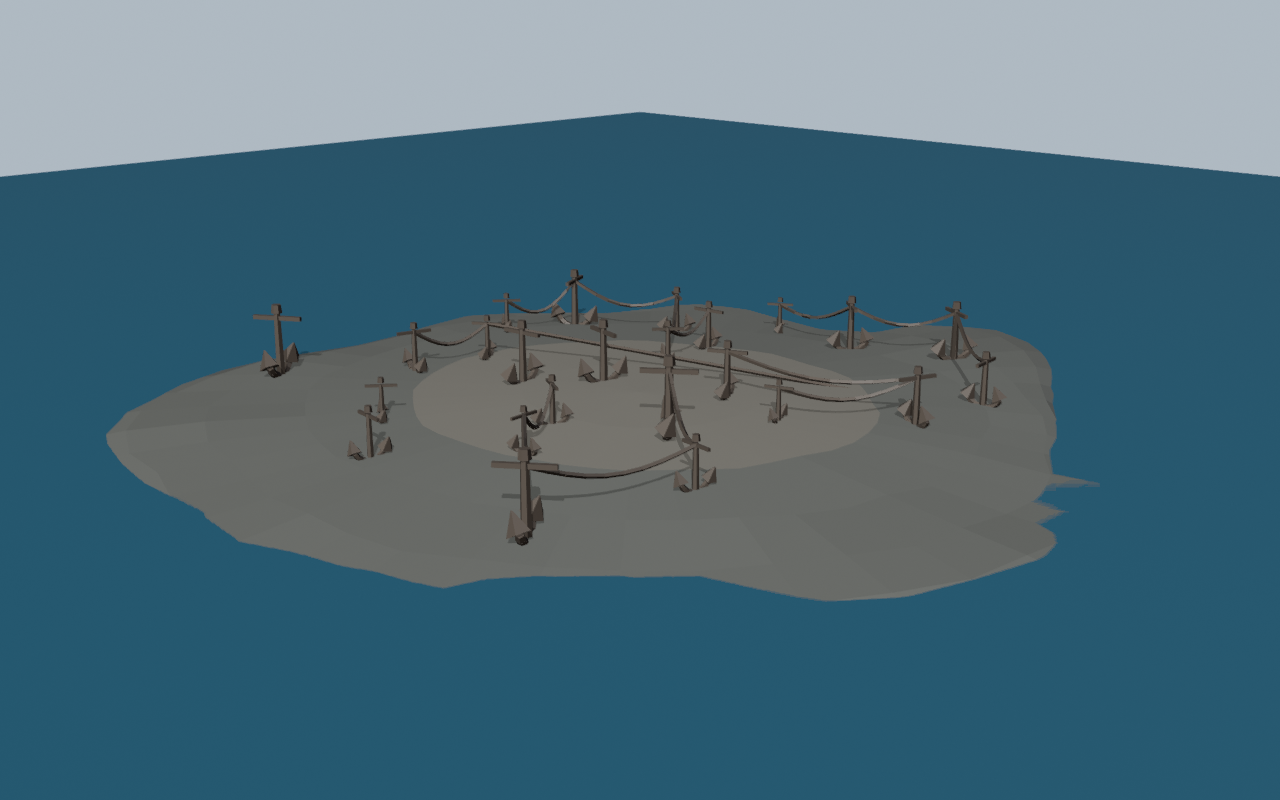
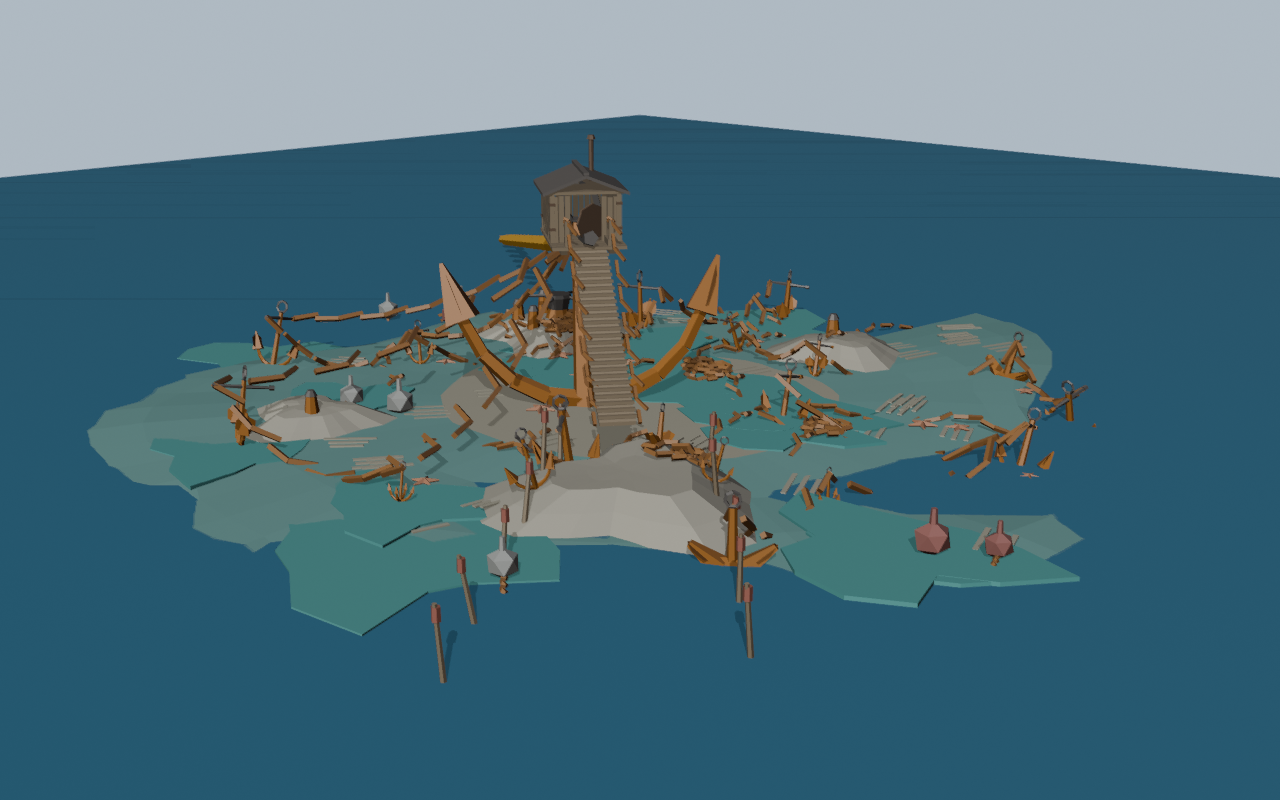
Islet redesign: the paperwork - checklist row 1c, context, 57 previews
Row 1c rewritten from scratch: the old collision notes described geometry
that no longer exists, and the new PreciseConvexDecomposition list is
~28 parts with the REASON stated per part (a hull seals the chapel's
holed roof, fills the rookery arch's channel, boxes the whole anchor
garden under one hull, flattens the lighthouse stair). Colour and
material remain zero-manual-step: 220 MESH_COLOR rows derived from this
very glb, nine Neon parts, 45 non-collide rulings, and the hot lagoon
flagged as the one fishable surface among them.

context.md records the redesign and the two lessons that cost real work:
merge fleet diffs against the COMMON BASE the agents copied, never the
moving main tree (adjacent-builder hunks carried sibling reverts inside
legitimately-kept hunks, and three commit messages briefly lied about
their trees); and always pass --python-exit-code 1 to headless Blender,
because a crashed pack build exits 0 and leaves a stale artifact
masquerading as fresh.

The 57 previews are the render evidence for all nine islets - the money
shots (cleft, arch, hamlet, caldera, void, wade, crescent, spire
cluster, drowned church) plus per-islet hut and detail shots. Old-design
previews deleted.

diff --git a/docs/import-checklist.md b/docs/import-checklist.md
@@ -46,7 +46,7 @@ Pyrelisk does it, rather than an import step someone has to remember.)
 |---|---|---|---|
 | 1 | `assets/island_pack.glb` | `IslandPack` (or per-island models) | **OWED AGAIN as of 2026-08-27 (7165cf4)**: the swamp was RESTARTED — the pack's Swamp group is now step 3 of the rebuild: the colored landform + the marsh (`Swamp_Base` + `Swamp_Water`, 9 sunken pools; still no trees/props/dock/foam — delete every old Swamp child when replacing). collision fidelity now matters on ONE swamp part only: PreciseConvexDecomposition on `Swamp_Base` (the pool beds are real carved bowls; a Default hull caps them). Every other swamp mesh - trees included - is pass-through at runtime; solid trunks come from invisible runtime colliders (Shared/Data/SwampTrees.luau), so no import setting can create phantom walls. **The VOLCANO was RESTARTED too (2026-08-27, this pack regen)**: its group is now step 1 of its rebuild — ONE bare `Volcano_Base` landform (a clean ~205-stud cone + crater dish on a broad ash apron; no lava/trail/props/dock/foam — delete every old Volcano child when replacing; PreciseConvexDecomposition on `Volcano_Base` AND `Volcano_DeadTrees` - a box hull over a spread dead-tree crown is an invisible wall). Steps 2+3 followed same-day: `Volcano_Lava` (fishable, Neon) + the 46 dead giants are in the pack now - the "no lava" note above is superseded. Ice/gloom/wreck are byte-identical to the previous pack (SEED leak pinned at 7 in the volcano entry — mesh bottoms verified -9.00/-16.53/-18.25). As of dd1ec0a the pack bundles ALL SEVEN islands: Island, Volcano, **Swamp, Frostmaw, Gloomtrench, Wreckwater, Maelstrom** (the Maelstrom group is identical to row 1b's standalone glb — importing the pack covers it; see 1b for its collision notes). One import covers every island. WorldService clones each child group by model name. Use PreciseConvexDecomposition collision fidelity on the `<Name>_Base` landforms and solid props (players walk them); water/foam slabs can stay default. **Frostmaw's walkable ice sheet MUST be PreciseConvexDecomposition too**: with the Default hull the pre-cut fishing holes get capped by an invisible floor (the exact volcano-crater gotcha from context.md) — you'd walk over the holes and every cast at them would hit the cap. **NPC HOUSES (2026-08-29): every `*_Hut_Walls` and `*_Hut_Roof` part MUST be PreciseConvexDecomposition.** The six houses (Island_Hut_*, Swamp_Hut_*, Frostmaw_Hut_*, Volcano_Hut_*, Gloomtrench_Hut_*, Wreckwater_Hut_*) are walk-in: with a Box or Hull fidelity the shell becomes a solid block, the doorway fills with an invisible wall and the interior is unreachable - the same failure as the volcano crater cap. Collision fidelity cannot be set from code, so this is import-time or nothing. Their `_Props`/`_Glow`/`_Canvas`/`_Trim` layers are non-collidable at runtime and need no special fidelity. |
 | 1b | `assets/island_maelstrom.glb` | `Maelstrom` (new) | **NEW 2026-08-27**: the Maelstrom's authored mesh (drowned storm-shoal, fight stacks, titan fangs, the doomed fleet, chains, storm-fire) — the finale stops being nine grey boxes. Import as `ReplicatedStorage/Assets/Maelstrom` (9 objects under one container, keep exact names). **PreciseConvexDecomposition on `Maelstrom_Base` and `Maelstrom_Platforms`** — the platforms are the Kraken fight's floor and travel's landing probe. Until imported the procedural stand-in keeps running; the whirlpool disc is procedural either way. (Covered by row 1's pack as of dd1ec0a — import EITHER this or the pack, whichever lands last wins; the collision notes here apply to the pack's Maelstrom group too.) |
-| 1c | `assets/island_pack.glb` (same file as row 1) | nine MORE groups under `IslandPack` | **NEW 2026-08-30 (the islets)**: the pack now carries `Bellbuoy`, `Chapel`, `Rookery`, `Boilshoal`, `Lampwork`, `Anchorage`, `Whalefall`, `Ferryraft`, `Loadstone` — tiny places scattered between the islands, one resident and their quests each, deliberately absent from `Islands.order` so nothing gates them and the travel menu never lists them (you find them by boat). **Row 1's single import covers these**: they arrive as siblings of the seven island groups, keep exact names, WorldService clones by model name. **PreciseConvexDecomposition on every `*_Base` landform** — all nine are walked on — and on five props where a hull is not cosmetic but breaks the thing: **`Rookery_Ledges`** above all - a separate object holding ~17 DISJOINT arc slabs, so a convex hull over it fills the entire stack solid, and it is the only surface Pip's spawn probe can land on (a ray at his anchor finds it at Y=36.00, against bare rock at 34.09). `Rookery_Base` needs it too: it is genuinely terraced now, and a Default hull smooths the treads straight back into the cone this islet was rebuilt to stop being - the volcano-crater gotcha exactly; **`Bellbuoy_Bell`**, hung with daylight under its mouth, where a hull fills the gap that is the only reason it reads as a bell instead of a sculpture, and stops you standing under it; **`Lampwork_Shop`** and **`Ferryraft_Shack`**, walk-in shells whose doorway and open side a hull fills (the NPC-house rule); and **`Chapel_Stone`**, whose belfry is now a genuinely OPEN four-arch stage - a hull fills all four openings and walls the bell back up, which is the one thing on this islet the quests are about. (`Chapel_Bell` itself is a hanging prop nobody stands on; its fidelity does not matter.) **No manual material step for these** — the four lit parts (`Lampwork_Glow`, `Boilshoal_Glow`, `Ferryraft_Glow`, `Loadstone_Glow`) take Neon from `MESH_MATERIAL` at runtime and all 65 islet parts take colour from `MESH_COLOR`, which warns by name at boot for any part it does not know. **Fidelity is irrelevant** on everything stripped of collision at runtime: `Lampwork_Moths/_Lamps/_Glow`, `Rookery_Birds/_Nests`, `Boilshoal_Steam/_Glow`, `Whalefall_Life`, `Ferryraft_Rope/_Glow`, `Loadstone_Iron/_Glow`, and `Anchorage_Iron` — that last is ONE mesh holding both the standing anchors and the catenary chains slung between their stocks, so it is one CanCollide for both and the chains decide it, the same ruling as `Maelstrom_Chains`. **Do not scale on import**: all nine are authored at final size and every one measures a bbox bottom of exactly -9.00, which is why no islet declares a `meshBottom`. |
+| 1c | `assets/island_pack.glb` (same file as row 1) | nine islet groups under `IslandPack` | **FULLY REDESIGNED 2026-09-02** (supersedes every earlier note in this row): the nine islets no longer share one landform - a heeled basalt wedge split by a cleft (`Bellbuoy`), a drowned church you walk on (`Chapel`), two stacks joined by a sea-arch (`Rookery`), a four-platform floating hamlet (`Ferryraft`), a broken caldera round a hot lagoon (`Boilshoal`), a cliff-edged shelf over the trench (`Lampwork`), a wading flat of anchors (`Anchorage`), a 200-stud crescent spit (`Whalefall`), and a cathedral of struck needles (`Loadstone`). Row 1's single import still covers all nine; exact names; every bbox bottom measures -9.00 so none declares a meshBottom. **PreciseConvexDecomposition is load-bearing on ~28 parts** - a hull seals a doorway, fills the arch, or flattens a stair on every one of these: `Bellbuoy_Wedge` (the cleft is walked through) `_Dinghy` `_Gantry` `_Base`; `Chapel_Roof` (the HOLED walkable deck - you fish through the tears) `_Stone` (open belfry + porch) `_Yard` (individual flags); `Rookery_Stacks` (the arch has a real hole - a hull fills the channel) `_Ledges` `_Eyrie` (stilts + open deck); `Ferryraft_Cabin` `_Bridges` `_Bow` `_Barrels` `_Barge` `_Gear`; `Boilshoal_Rim` (two channels a hull would seal - the lagoon becomes unreachable) `_Terraces` `_Hut`; `Lampwork_Shop` (walk-in shop + lean-to + jetty piles + lighthouse stair) `_Base` (the plumb cliff and the void below it); `Anchorage_Shack` (the gangway) `_Iron` (17 concave anchors - a hull is one box over the whole garden); `Whalefall_Bar` (a hull fills the lagoon) `_Bones` (walk-through ribcage, walk-in rib-house); `Loadstone_Rubble` (ramps + pad) `_Shack` `_Spires` (a concave cluster you walk between). **No manual material step**: all 220 islet parts take colour from `MESH_COLOR` (derived from this very glb - `tools/check_islet_colors.py` reads the pack and fails on drift in either direction), nine Neon parts come from `MESH_MATERIAL`, and 45 non-collide rulings apply at runtime. **`Boilshoal_Lagoon` is a fishable water surface** (FISHABLE_NAMES + WATERS_BY_PART, drawing the ocean pool) - it must stay CanQuery-able, which the runtime handles; nothing to do at import. **Do not scale on import.** |
 | 2 | `assets/weapon.glb` | `WeaponPack` | **OWED as of c562dd6 (icon-matched melee round; supersedes 0c80a76)**: all 20 melee models rebuilt to rod-pack quality, then re-matched to the user's canon icon set (guns untouched). Swing/reload animation fixes are code-side and live on boot; the remodeled melee needs this import. NOTE: the Studio Assets.rbxm re-export sitting in the tree predates c562dd6 - re-import weapon.glb even if you just did an import pass. Import once, using the LAST weapon.glb commit in git log. |
 | 3 | `assets/boat.glb` | `BoatPack` (new) | Six tier hulls + Helm seat markers + trophy-shelf sterns (variant names in boat_gen.py). On first import, sanity-check the bow orientation in Studio (authored bow = Blender -y, same convention gotcha as the rod pack). |
 | 4 | `assets/creatures.glb` | `CreaturePack` | **OWED AGAIN as of 2026-08-27 (ba93efb)**: the boss-redesign pass rebuilt Gnashroot, Rimefang, Pyrelisk, Noctyss, AdmiralWrack, Kraken AND KrakenTentacle bespoke — until re-import the fights run with the OLD boss meshes (movesets are code-side and already live). Import the latest creatures.glb, replace `CreaturePack`, re-export Assets.rbxm. |

diff --git a/context.md b/context.md
@@ -970,6 +970,34 @@ code+data; live on next boot). The plan file:
 
 ### The islets: nine places between the islands (2026-08-30, import owed)
 
+**FULL REDESIGN 2026-09-02** (user: "very very bland grey circles with some
+random objects on top"): all nine islets rebuilt by a fleet of nine Opus
+subagents, one per islet, each in an isolated worktree. No two share a
+landform any more, every resident has a real home, and the section below
+should be read with that in mind - placement/quest/waters mechanics are
+unchanged, but every geometry claim predating this line is superseded.
+The nine: a heeled basalt wedge split by a bell-cleft; a drowned church
+whose nave roof IS the ground; two stacks joined by a sea arch; a
+four-platform floating hamlet; a broken caldera round a milky hot lagoon
+(fishable, wired to the OCEAN pool in World.luau); a cliff-edged shelf
+over the trench; a wading flat of seventeen anchors; a 200-stud crescent
+spit with the whale along its spine; a cathedral of eight struck needles.
+MESH_COLOR now carries 220 islet rows DERIVED FROM THE PACK GLB, and
+check_islet_colors v2 reads the pack as ground truth (the redesigned
+builders emit objects through helpers a source regex cannot see - v1
+produced 100+ false findings against a correct table).
+
+**The merge lesson, at my expense** (recorded because the next fleet will
+hit it): applying each agent's diff against the MOVING main tree let
+adjacent-builder hunks carry sibling REVERTS inside legitimately-kept
+hunks - three commits claimed islets their trees did not contain, and six
+of nine designs were silently old before the pack rebuild caught it. The
+correct construction: diff each worktree against the COMMON BASE it
+copied, where the delta is that agent's work and nothing else by
+construction. Also: Blender headless swallows Python exceptions unless
+`--python-exit-code 1` is passed - a crashed pack build exited 0 and left
+a stale pack masquerading as fresh.
+
 Nine tiny landforms scattered in the OPEN SEA between the seven voyage-arc
 islands. One resident each, their own quests, and no gate of any kind: the
 only way to reach one is to sail there. Bellbuoy, the Drowned Chapel, the
